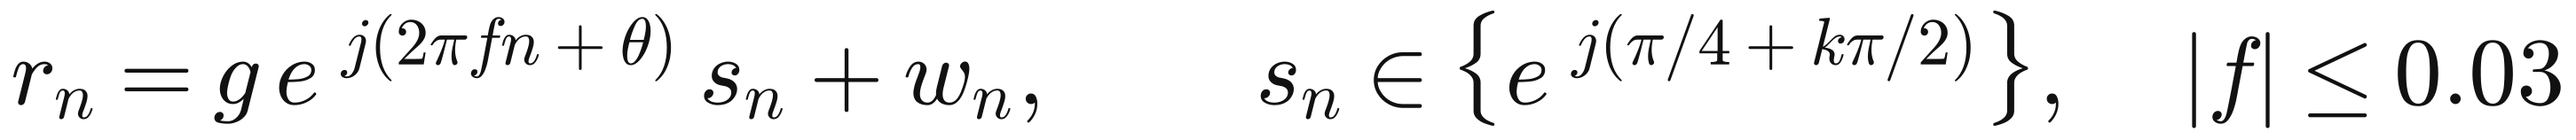
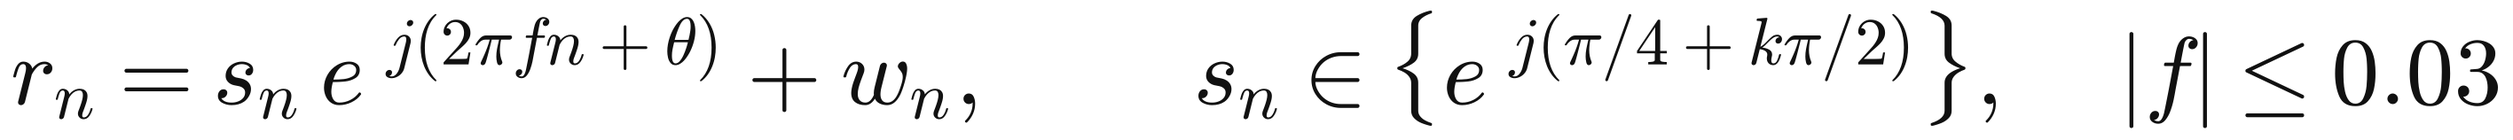
Slide equations: drop the MF gain, use 4f, add LLR/metric, z-test and stage-3 formulas
Claude-Session: https://claude.ai/code/session_01Uut9iw5SnA6a3eeYDv3vkc

diff --git a/slides_eq/render_eq.py b/slides_eq/render_eq.py
@@ -19,11 +19,11 @@ OUT = os.path.dirname(os.path.abspath(__file__))
 
 EQ = {
     # signal model
-    "model": r"$r_n = g\,e^{\,j(2\pi f n+\theta)}\,s_n + w_n,\qquad s_n\in\{e^{\,j(\pi/4+k\pi/2)}\},\quad |f|\leq 0.03$",
+    "model": r"$r_n = s_n\,e^{\,j(2\pi f n+\theta)} + w_n,\qquad s_n\in\{e^{\,j(\pi/4+k\pi/2)}\},\quad |f|\leq 0.03$",
     # 4th power
     "s4": r"$s_n^4 = e^{\,j4(\pi/4+k\pi/2)} = e^{\,j\pi}\,e^{\,j2\pi k} = -1$",
-    "y4": r"$y_n=-r_n^4=-g^4e^{\,j(2\pi\cdot 4f n+4\theta)}\,s_n^4+\varepsilon_n=g^4e^{\,j(2\pi\,\nu n+4\theta)}+\varepsilon_n$",
-    "nu": r"$\nu = 4f,\qquad |\nu|\leq 0.12 < 1/2\ \Rightarrow\ \mathrm{no\ aliasing}$",
+    "y4": r"$y_n=-r_n^4=-s_n^4\,e^{\,j(2\pi\cdot 4f\cdot n+4\theta)}+\varepsilon_n=e^{\,j(2\pi\cdot 4f\cdot n+4\theta)}+\varepsilon_n$",
+    "nu": r"$|4f|\leq 4\cdot 0.03=0.12 < 1/2\ \Rightarrow\ \mathrm{no\ aliasing}$",
     # FFT
     "fft": r"$Y[k]=\sum_{n=0}^{1023} y_n\,e^{-j2\pi kn/4096}$",
     "kb": r"$k_b=\arg\max_{|k|/4096\,\leq\,0.12}\ |Y[k]|$",
@@ -50,6 +50,18 @@ EQ = {
     "rho_right": r"$\rho_{\mathrm{right}}\approx\sqrt{\dfrac{\mathrm{SNR}}{1+\mathrm{SNR}}}\ \ (0.49\ \mathrm{at}\ -5\ \mathrm{dB})$",
     "rho_wrong": r"$P(\rho_{\mathrm{wrong}}>t)\approx e^{-Nt^2}\ \ (4\cdot 10^{-7}\ \mathrm{at}\ t=0.12)$",
     "rho_th": r"$\rho>\max\!\left(0.12,\ c(\mathrm{SNR})\sqrt{\dfrac{s}{1+s}}\right)$",
+    # LLRs and the metric of one hypothesis
+    "llr_y": r"$y_n(f,\theta)=r^{\prime}_n\,e^{-j(2\pi f n+\theta)}$",
+    "llr_l": r"$L_{2n}=2\sqrt{2}\,\mathrm{SNR}\cdot\mathrm{Re}\{y_n\},\qquad L_{2n+1}=2\sqrt{2}\,\mathrm{SNR}\cdot\mathrm{Im}\{y_n\}$",
+    "mdef": r"$M(\mathbf{L})=\sum_{i=0}^{N-1}\ln\!\left(1+e^{-(1-2\hat u_i)\lambda_i(\mathbf{L})}\right)$",
+    # z-test details
+    "mad": r"$\mathrm{MAD}(M)=\mathrm{median}_c\left|M_c-\mathrm{median}(M)\right|,\qquad 1.4826\cdot\mathrm{MAD}\approx\sigma$",
+    "tail": r"$P(z_c>6\mid \mathrm{wrong\ cell})\approx Q(6)\approx 10^{-9}$",
+    # stage 3, readable
+    "ref": r"$f=f_c+o\cdot\Delta,\ \ o\in\{-\dfrac{k}{2},\dots,\dfrac{k}{2}\},\qquad \theta=\theta_c+\{-\dfrac{\pi}{12},\,0,\,+\dfrac{\pi}{12}\}$",
+    "zdd2": r"$z_n=r^{\prime}_n\cdot\hat s_n^{\,*}\ \approx\ e^{\,j(2\pi f n+\theta)}+\mathrm{noise}$",
+    "fdd": r"$\hat f=\arg\max_f\ \left|\sum_n z_n\,e^{-j2\pi f n}\right|^2$",
+    "thdd2": r"$\hat\theta=\mathrm{angle}\left(\sum_n z_n\,e^{-j2\pi \hat f n}\right)$",
 }
 
 
